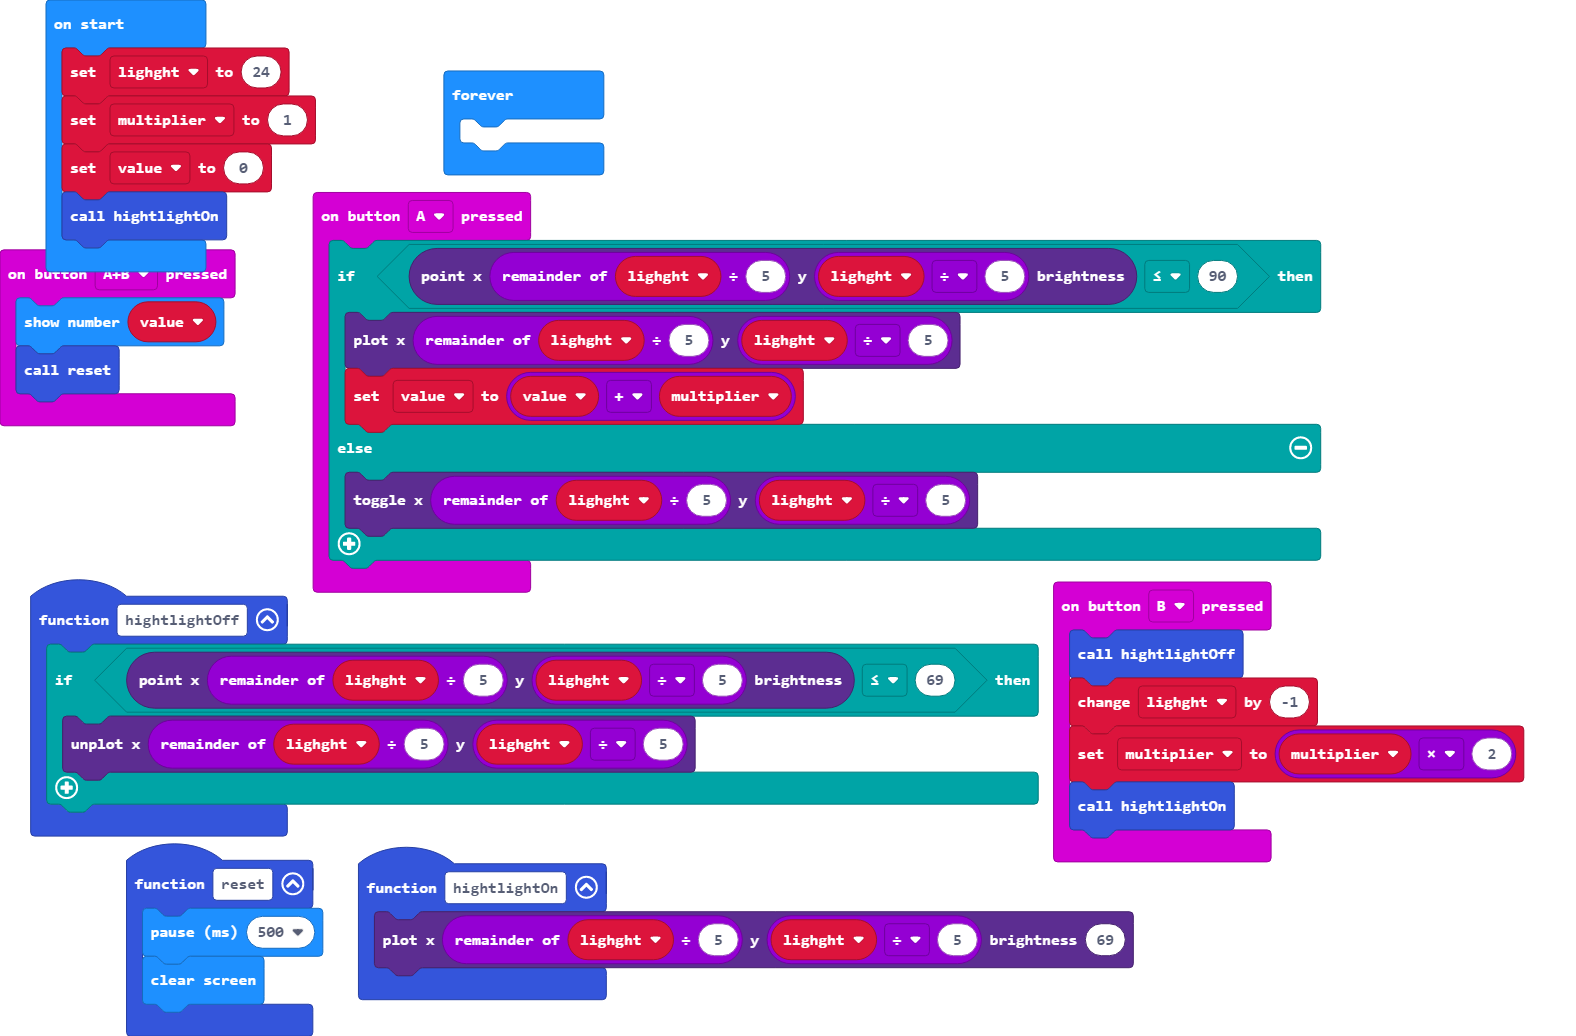
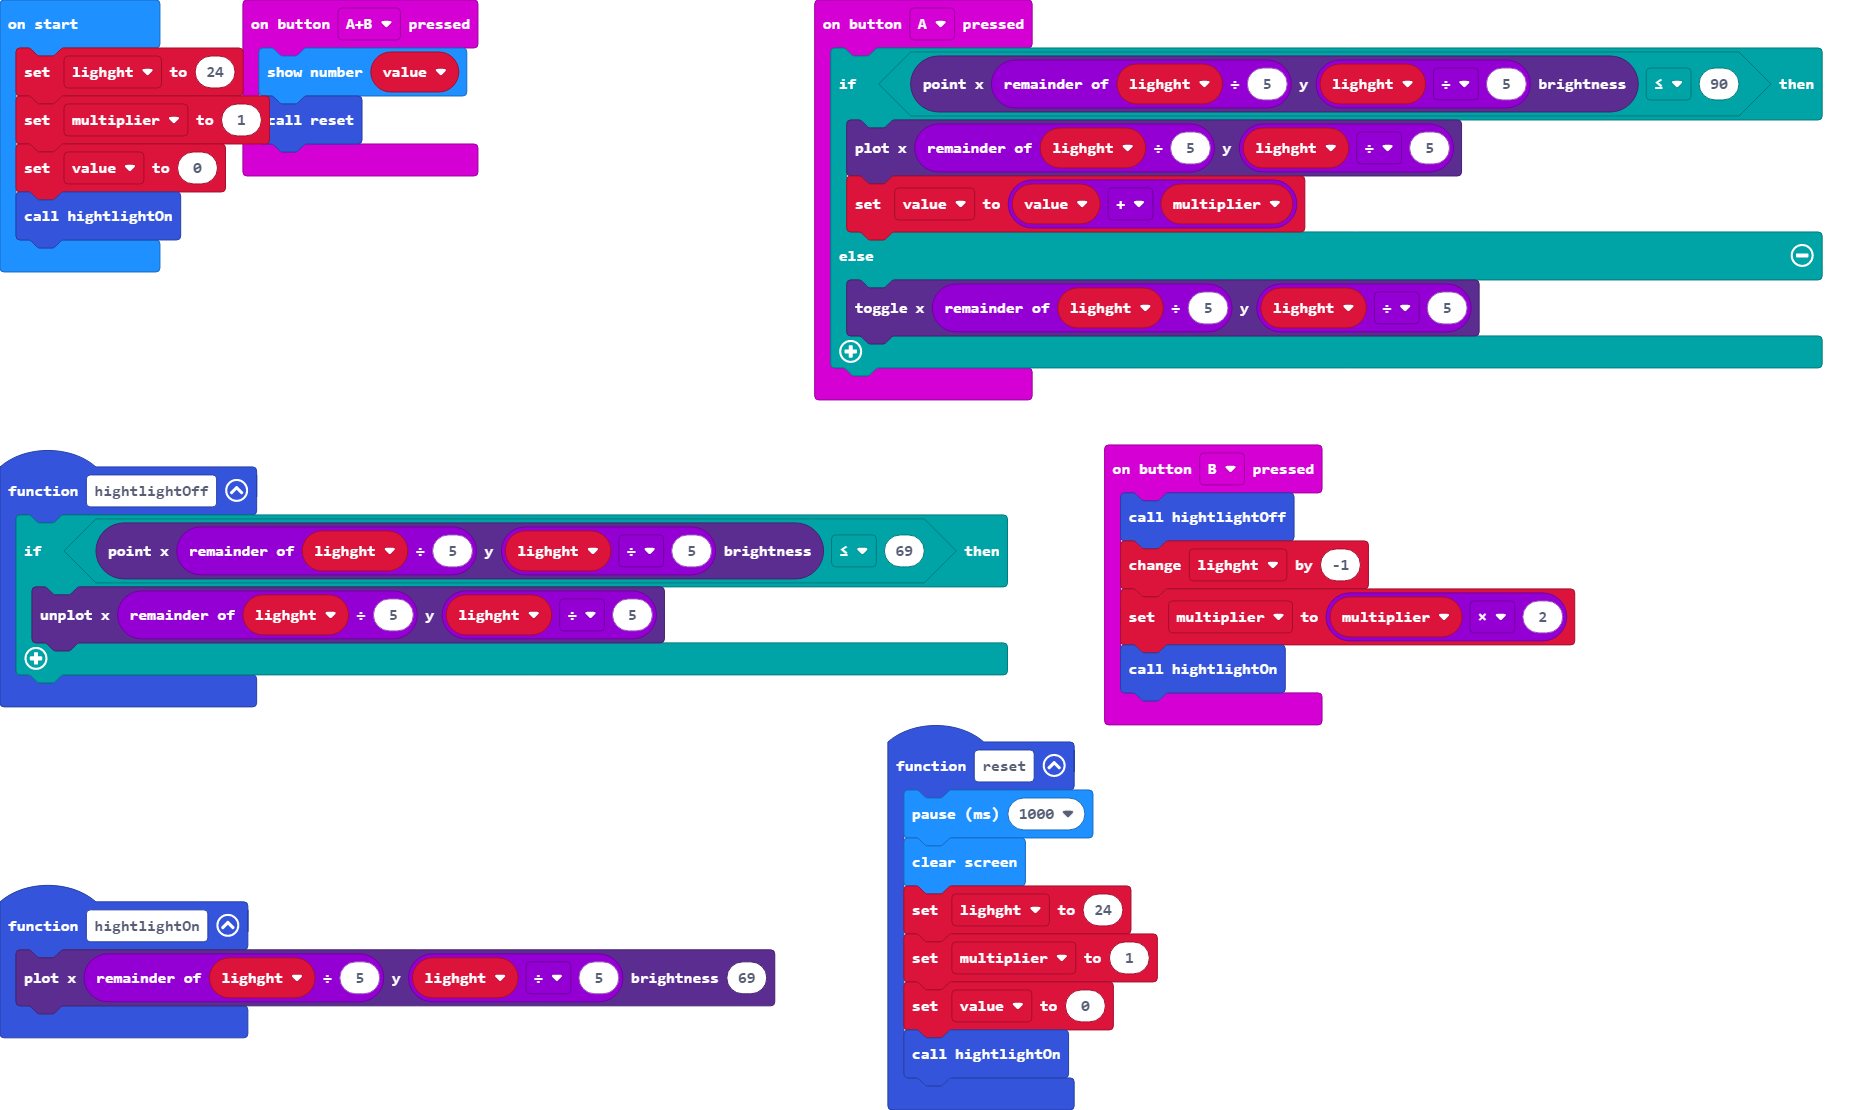
Fixed reset

diff --git a/main.ts b/main.ts
@@ -25,8 +25,12 @@ input.onButtonPressed(Button.B, function () {
     hightlightOn()
 })
 function reset () {
-    basic.pause(500)
+    basic.pause(1000)
     basic.clearScreen()
+    lighght = 24
+    multiplier = 1
+    value = 0
+    hightlightOn()
 }
 let value = 0
 let multiplier = 0
@@ -35,6 +39,3 @@ lighght = 24
 multiplier = 1
 value = 0
 hightlightOn()
-basic.forever(function () {
-	
-})
